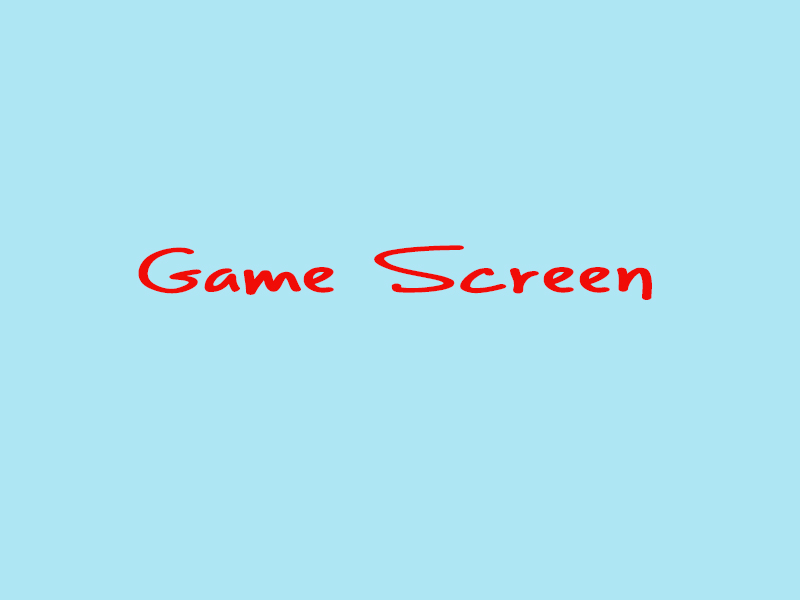
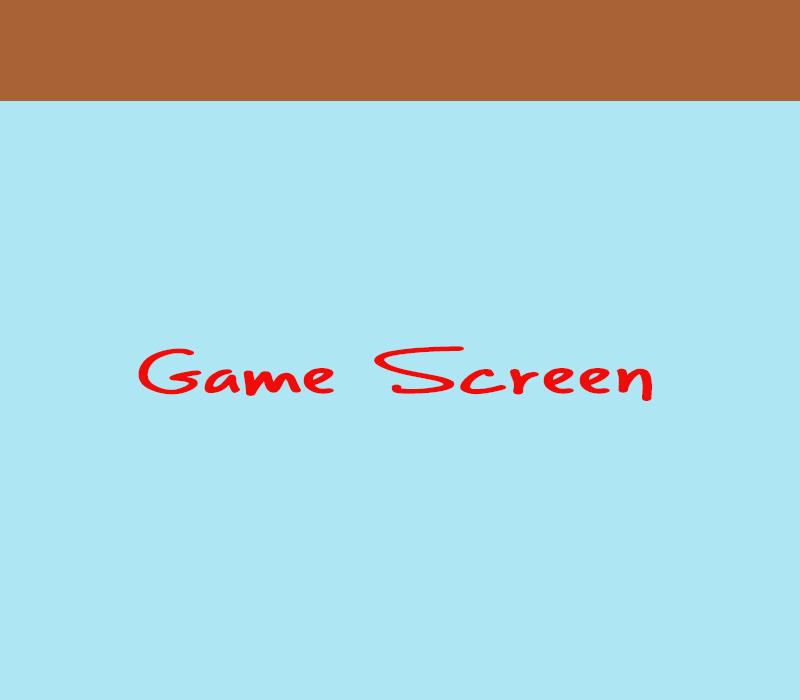
Updated screen size to 800 x 700 with [(0,0), (800, 100)] to be used as a HUD.  Modifed all three graphics to reflect new screen diminsions  Also started adding content to credits screen.

diff --git a/game.py b/game.py
@@ -10,7 +10,7 @@ bg_filenames = ('assets/images/bg_title.jpg',
                 )
 
 # setup game display
-size = screen_width, screen_height = 800, 600
+size = screen_width, screen_height = 800, 700
 screen = pygame.display.set_mode(size)
 pygame.display.set_caption('Penguin')
 pygame.display.set_icon(pygame.image.load('assets/images/penguin_icon.png').convert_alpha())
@@ -65,9 +65,11 @@ def update_display(game_stage):
 
 def game_loop():
     # update penguin position with keyboard
+    x_change = 0
     y_change = 0
     game_stage = 'title'
     score = 0
+    player_speed = 5
 
     play = True
 
@@ -83,15 +85,26 @@ def game_loop():
                     if event.key == pygame.K_SPACE:
                         game_stage = 'game'
                 elif game_stage == 'game':
-                    if event.key == pygame.K_SPACE:
+                    if event.key == pygame.K_UP:
+                        y_change -= player_speed
+                    elif event.key == pygame.K_DOWN:
+                        y_change += player_speed
+                    elif event.key == pygame.K_LEFT:
+                        x_change -= player_speed
+                    elif event.key == pygame.K_RIGHT:
+                        x_change += player_speed
+                    elif event.key == pygame.K_SPACE:
                         game_stage = 'credits'
                 elif game_stage == 'credits':
-                    if event.key == pygame.K_SPACE:
-                        pquit()
+                    pquit()
 
             if event.type == pygame.KEYUP:
-                y_change = 0
+                if event.key == pygame.K_LEFT or event.key == pygame.K_RIGHT:
+                    x_change = 0
+                if event.key == pygame.K_UP or event.key == pygame.K_DOWN:
+                    y_change = 0
 
+        penguin.x += x_change
         penguin.y += y_change
 
         screen.fill(PALE_BLUE)
